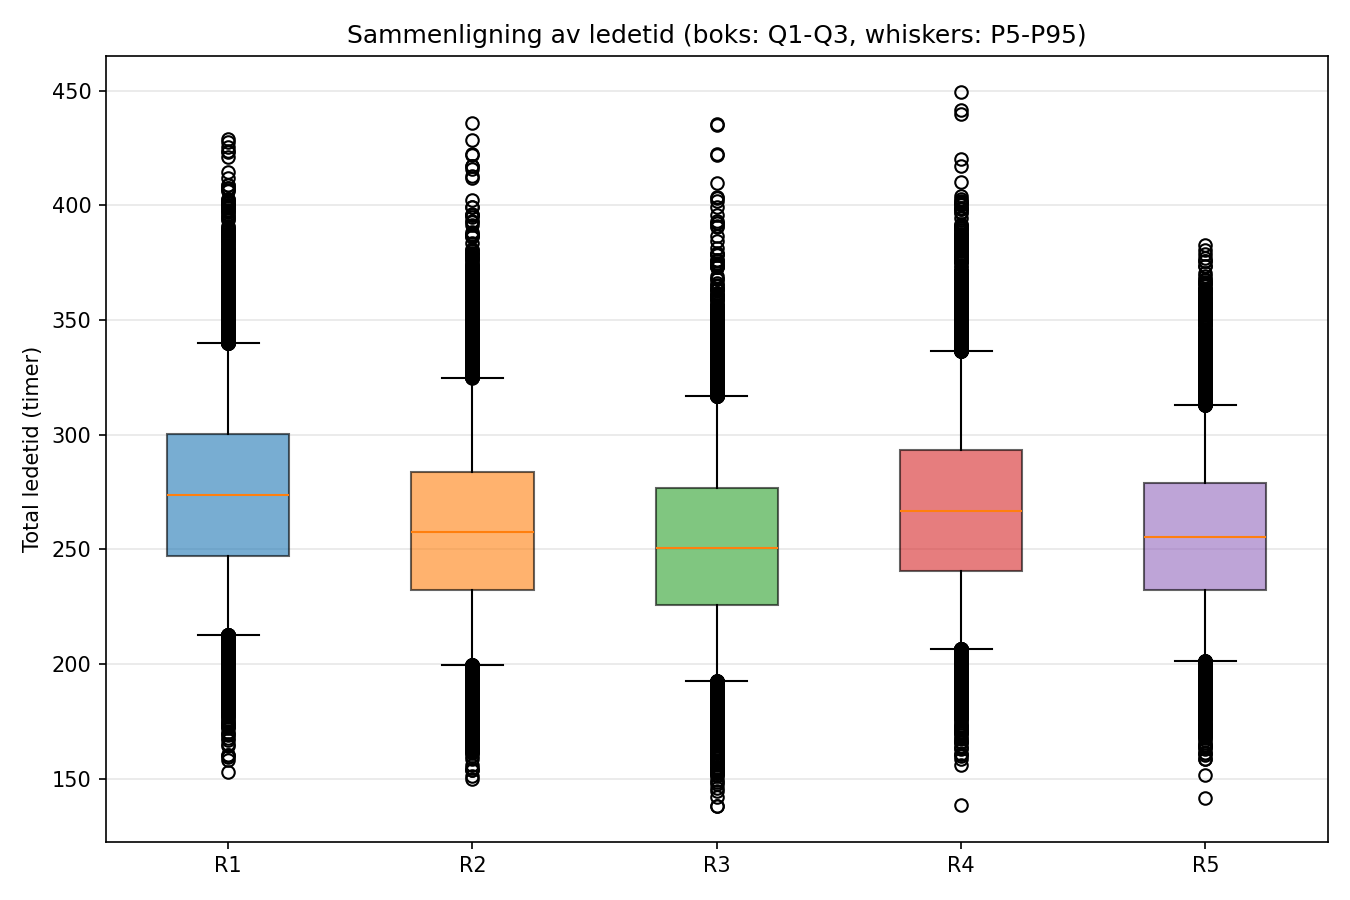
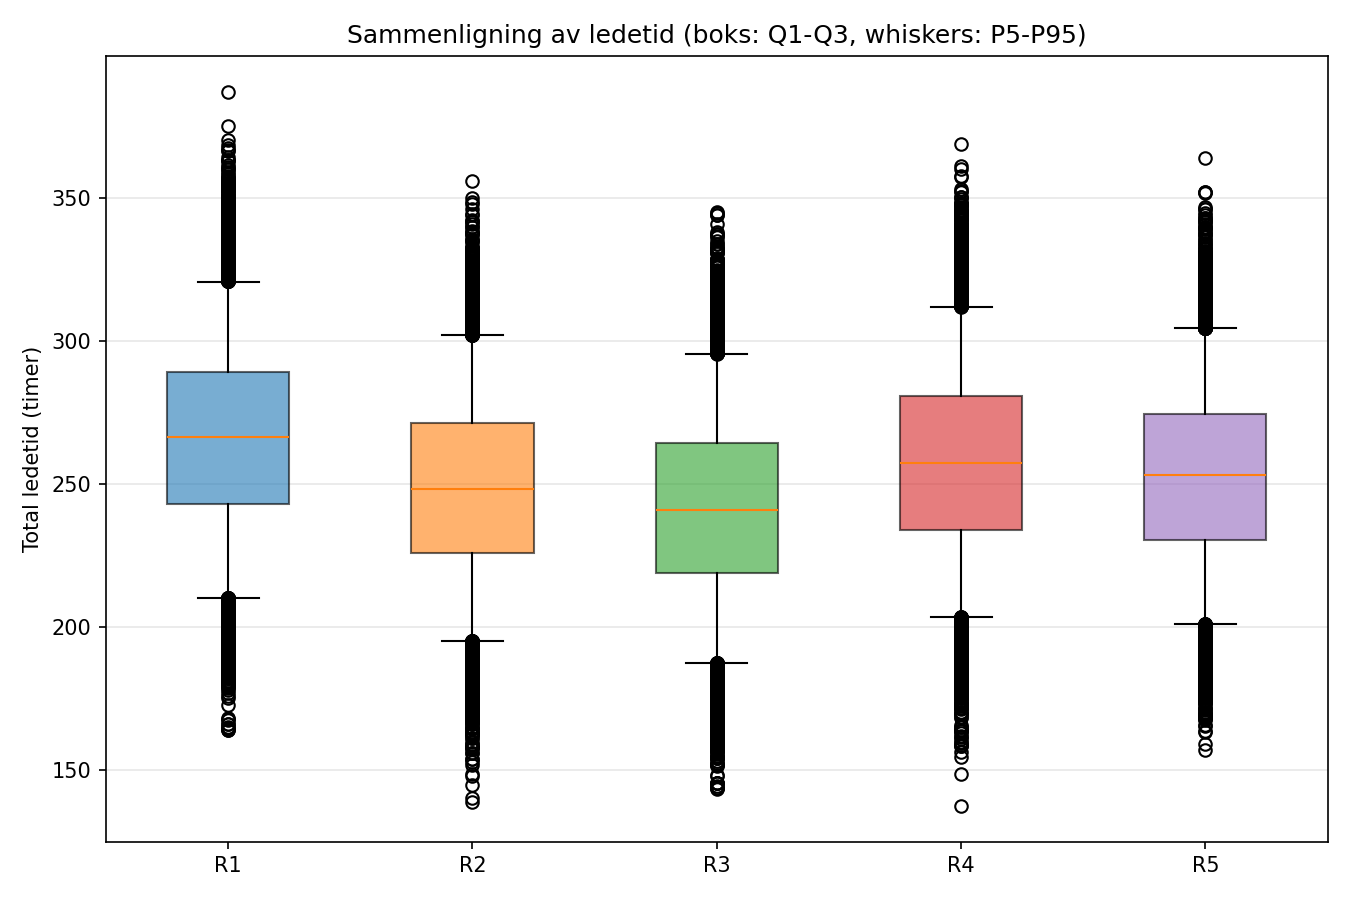
Hei

diff --git a/Herman_sim/bachelor_montecarlo/monte_carlo.py b/Herman_sim/bachelor_montecarlo/monte_carlo.py
@@ -66,63 +66,76 @@ def read_segments(excel_path: Path) -> pd.DataFrame:
 def read_stochastic_params(excel_path: Path) -> dict:
     """
     Leser Stokastiske_parametere-arket. Returnerer dict med 5 sub-tabeller.
+    Robust mot endringer i antall rader: leser til neste section-header.
     """
     raw = pd.read_excel(excel_path, sheet_name='Stokastiske_parametere',
                         header=None)
 
-    # Vi vet hvor seksjonene starter basert på hvordan vi bygde arket.
-    # Bruk søk etter section-header for robust parsing.
     def find_row(text_start):
         for i, val in enumerate(raw.iloc[:, 0]):
             if isinstance(val, str) and val.startswith(text_start):
                 return i
         return None
 
-    # Seksjon 1: CV per modus (start rad 4, headers rad 5, data rad 6+)
+    def section_nrows(start_idx):
+        """Tell datarader fra start_idx til neste section-header eller tom rad."""
+        n = 0
+        for i in range(start_idx, len(raw)):
+            val = raw.iloc[i, 0]
+            if val is None or (isinstance(val, float) and pd.isna(val)):
+                break
+            if isinstance(val, str) and (val.startswith('1.') or val.startswith('2.')
+                                          or val.startswith('3.') or val.startswith('4.')
+                                          or val.startswith('5.') or val.startswith('6.')):
+                break
+            n += 1
+        return n
+
+    # Seksjon 1: CV per modus
     s1_start = find_row('1. Transporttid')
+    n1 = section_nrows(s1_start + 2)  # +2 for section-header og kolonne-header
     cv = pd.read_excel(excel_path, sheet_name='Stokastiske_parametere',
-                       header=s1_start + 1, nrows=7,
-                       usecols='A:C')
+                       header=s1_start + 1, nrows=n1, usecols='A:C')
     cv.columns = ['Mode', 'Fordeling', 'CV']
     cv = cv.dropna(subset=['Mode']).set_index('Mode')
 
     # Seksjon 2: Terminaltid triangulær
     s2_start = find_row('2. Terminaltid')
+    n2 = section_nrows(s2_start + 2)
     tri = pd.read_excel(excel_path, sheet_name='Stokastiske_parametere',
-                        header=s2_start + 1, nrows=7,
-                        usecols='A:D')
+                        header=s2_start + 1, nrows=n2, usecols='A:D')
     tri.columns = ['Mode', 'Min', 'Mode_val', 'Max']
     tri = tri.dropna(subset=['Mode']).set_index('Mode')
 
-    # Seksjon 3: Headway
+    # Seksjon 3: Headway (har en ekstra forklaringslinje, så +3 i stedet for +2)
     s3_start = find_row('3. Ventetid')
+    n3 = section_nrows(s3_start + 3)
     hw = pd.read_excel(excel_path, sheet_name='Stokastiske_parametere',
-                       header=s3_start + 2, nrows=7,
-                       usecols='A:B')
+                       header=s3_start + 2, nrows=n3, usecols='A:B')
     hw.columns = ['Mode', 'Headway']
     hw = hw.dropna(subset=['Mode']).set_index('Mode')
 
     # Seksjon 4: Grenseforsinkelse
     s4_start = find_row('4. Grenseforsinkelse')
+    n4 = section_nrows(s4_start + 2)
     border = pd.read_excel(excel_path, sheet_name='Stokastiske_parametere',
-                           header=s4_start + 1, nrows=3,
-                           usecols='A:D')
+                           header=s4_start + 1, nrows=n4, usecols='A:D')
     border.columns = ['Grense', 'Min', 'Mode', 'Max']
     border = border.dropna(subset=['Grense']).set_index('Grense')
 
-    # Seksjon 5: Disrupsjon
+    # Seksjon 5: Disrupsjon (har forklaringslinje, +3)
     s5_start = find_row('5. Disrupsjons')
+    n5 = section_nrows(s5_start + 3)
     disrupt = pd.read_excel(excel_path, sheet_name='Stokastiske_parametere',
-                            header=s5_start + 2, nrows=7,
-                            usecols='A:E')
+                            header=s5_start + 2, nrows=n5, usecols='A:E')
     disrupt.columns = ['Mode', 'P', 'Min', 'Mode_val', 'Max']
     disrupt = disrupt.dropna(subset=['Mode']).set_index('Mode')
 
     # Seksjon 6: MC-innstillinger
     s6_start = find_row('6. Monte Carlo')
+    n6 = section_nrows(s6_start + 2)
     mc = pd.read_excel(excel_path, sheet_name='Stokastiske_parametere',
-                       header=s6_start + 1, nrows=3,
-                       usecols='A:B')
+                       header=s6_start + 1, nrows=n6, usecols='A:B')
     mc.columns = ['Parameter', 'Verdi']
     mc = mc.dropna(subset=['Parameter']).set_index('Parameter')['Verdi']
 
@@ -158,9 +171,16 @@ def simulate_segment_time(segment_row, params, rng, n, include_disrupt=True):
     """
     mode = segment_row['Mode']
 
+    # Normaliser jernbane-varianter til "Rail" for parameter-oppslag.
+    # Dette lar Ruter-arket beholde rail1/rail2/rail3-betegnelser
+    # mens Stokastiske_parametere kan ha bare én "Rail"-rad.
+    mode_lookup = 'Rail' if mode.lower().startswith('rail') else mode
+
     # ---- Transporttid: lognormal med samme mean som deterministisk verdi ----
-    t_mean = float(segment_row['Transporttid_t'])
-    cv = float(params['cv'].loc[mode, 'CV']) if mode in params['cv'].index else 0.10
+    # Hvis Excel-formel ikke har blitt beregnet (NaN), beregn selv:
+    t_mean = float(segment_row['Transporttid_t']) if pd.notna(segment_row['Transporttid_t']) else \
+             float(segment_row['Distanse_km']) / float(segment_row['Hastighet_kmt'])
+    cv = float(params['cv'].loc[mode_lookup, 'CV']) if mode_lookup in params['cv'].index else 0.10
     if t_mean > 0 and cv > 0:
         # lognormal: hvis X = exp(mu + sigma*Z), så E[X] = exp(mu + sigma^2/2)
         # CV = sqrt(exp(sigma^2) - 1)  =>  sigma^2 = ln(1 + CV^2)
@@ -171,16 +191,16 @@ def simulate_segment_time(segment_row, params, rng, n, include_disrupt=True):
         t_transport = np.full(n, t_mean)
 
     # ---- Terminaltid: triangulær ----
-    if mode in params['terminal_tri'].index:
-        tri = params['terminal_tri'].loc[mode]
+    if mode_lookup in params['terminal_tri'].index:
+        tri = params['terminal_tri'].loc[mode_lookup]
         t_terminal = rng.triangular(left=tri['Min'], mode=tri['Mode_val'],
                                     right=tri['Max'], size=n)
     else:
         t_terminal = np.full(n, float(segment_row['Terminaltid_t']))
 
     # ---- Ventetid: uniform[0, headway] ----
-    if mode in params['headway'].index:
-        hw = float(params['headway'].loc[mode, 'Headway'])
+    if mode_lookup in params['headway'].index:
+        hw = float(params['headway'].loc[mode_lookup, 'Headway'])
         t_wait = rng.uniform(0, hw, size=n) if hw > 0 else np.zeros(n)
     else:
         t_wait = np.full(n, float(segment_row['Ventetid_t']))
@@ -199,8 +219,8 @@ def simulate_segment_time(segment_row, params, rng, n, include_disrupt=True):
         t_border = np.zeros(n)
 
     # ---- Disrupsjon: P * forsinkelse ----
-    if include_disrupt and mode in params['disrupt'].index:
-        d = params['disrupt'].loc[mode]
+    if include_disrupt and mode_lookup in params['disrupt'].index:
+        d = params['disrupt'].loc[mode_lookup]
         hits = rng.uniform(0, 1, size=n) < d['P']
         delays = rng.triangular(d['Min'], d['Mode_val'], d['Max'], size=n)
         t_disrupt = hits * delays
@@ -234,7 +254,7 @@ def simulate_route(route_id, segments_df, params, costs, rng, n,
         dist = seg['Distanse_km']
 
         if mode in ('Sjø', 'Sjø_havgaaende'):
-            direct += costs['Sjø_fast_RoRo']
+            direct += dist * costs['Sjø_kostnad_per_km']
         elif mode == 'Truck':
             direct += dist * costs['Vei_kostnad_per_tonn_km'] * load_tonn
         elif mode.lower().startswith('rail'):
@@ -387,7 +407,7 @@ def plot_results(results, out_dir=Path('.')):
 
 def main():
     parser = argparse.ArgumentParser()
-    parser.add_argument('--excel', default='model_mc_ready.xlsx',
+    parser.add_argument('--excel', default='model_mc_ready_2.xlsx',
                         help='Path til Excel-modellen')
     parser.add_argument('--n', type=int, default=None,
                         help='Antall iterasjoner (overstyrer Excel)')
